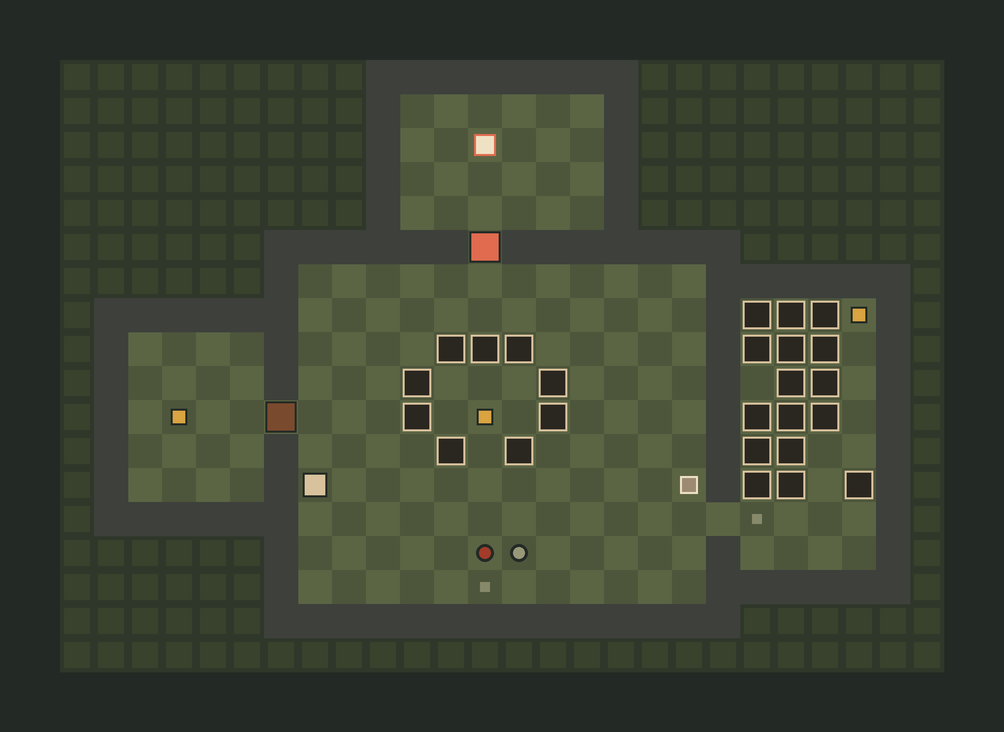
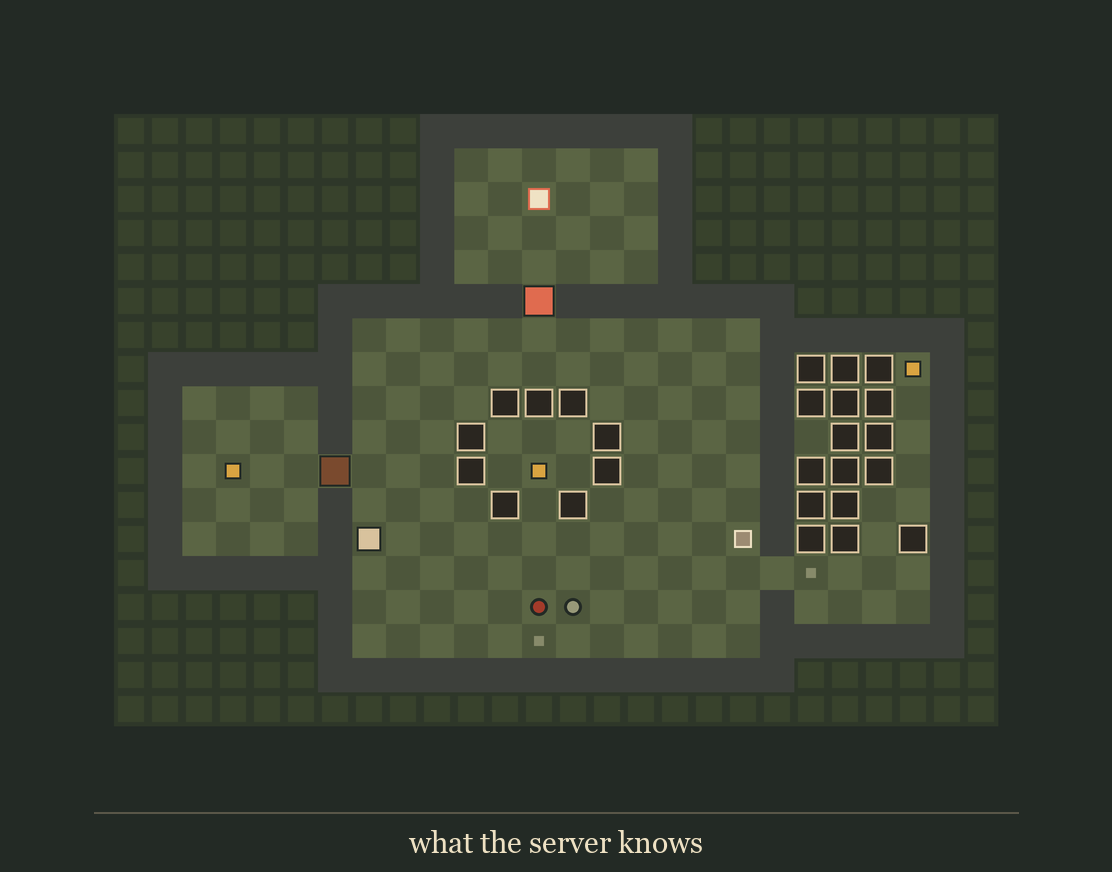
chore: caption each half of the dissonance pair (v0.9.5)
The halves were only labelled inside the combined image, which left them
unusable on their own. Both are now built from one captioned panel, and the
pair is those two panels side by side, so a slide can reveal them one at a
time and each still says which view it is.

diff --git a/tools/render_dissonance.py b/tools/render_dissonance.py
@@ -7,8 +7,8 @@ same picture and is not meant to be: the hidden pits are withheld, and a key tha
 not exist is shown. Both are drawn from the one level file, so the difference between
 the two images is exactly the difference the server manufactures.
 
-Writes the pair and each half separately, for a slide that wants to reveal them one at
-a time.
+Writes the pair and each half separately, every one of them captioned, so a slide can
+reveal them one at a time or show them together.
 """
 import os
 import sys
@@ -17,39 +17,43 @@ from PIL import Image, ImageDraw
 from boxrender import CREAM, NIGHT, SIENNA, STONE, font, lerp, out_dir
 from render_level import render
 
-GAP, PAD, CAPTION = 70, 54, 86
+PAD, CAPTION, GAP = 54, 86, 70
+
+
+def panel(img, caption):
+    """One map on the poster background, with a rule and its caption beneath."""
+    out = Image.new("RGB", (img.width + PAD * 2, img.height + PAD + CAPTION), NIGHT)
+    out.paste(img, (PAD, PAD))
+    d = ImageDraw.Draw(out)
+    y = PAD + img.height
+    d.line([(PAD + 40, y + 26), (PAD + img.width - 40, y + 26)],
+           fill=lerp(STONE, NIGHT, 0.55), width=2)
+    d.text((out.width // 2, y + 56), caption, font=font("georgia.ttf", 30),
+           fill=CREAM, anchor="mm")
+    return out
 
 
 def main():
     level_id = (sys.argv[1:] or ["foothills-3"])[0]
     cell = 34
 
-    halves = [("what the server knows", render(level_id, False, False, "truth", cell)),
-              ("what a client is told", render(level_id, False, False, "client", cell))]
+    panels = [panel(render(level_id, False, False, "truth", cell), "what the server knows"),
+              panel(render(level_id, False, False, "client", cell), "what a client is told")]
 
-    w = PAD * 2 + halves[0][1].width * 2 + GAP
-    h = PAD * 2 + halves[0][1].height + CAPTION
-    img = Image.new("RGB", (w, h), NIGHT)
-    d = ImageDraw.Draw(img)
+    pair = Image.new("RGB", (panels[0].width * 2 + GAP, panels[0].height), NIGHT)
+    for i, pan in enumerate(panels):
+        pair.paste(pan, (i * (pan.width + GAP), 0))
+    # A hairline between them, so they read as one comparison rather than two pictures.
+    d = ImageDraw.Draw(pair)
+    cx = panels[0].width + GAP // 2
+    d.line([(cx, PAD + 20), (cx, panels[0].height - CAPTION - 20)],
+           fill=lerp(SIENNA, NIGHT, 0.45), width=2)
 
-    for i, (caption, half) in enumerate(halves):
-        x = PAD + i * (half.width + GAP)
-        img.paste(half, (x, PAD))
-        mid = x + half.width // 2
-        d.line([(x + 40, PAD + half.height + 26), (x + half.width - 40, PAD + half.height + 26)],
-               fill=lerp(STONE, NIGHT, 0.55), width=2)
-        d.text((mid, PAD + half.height + 56), caption, font=font("georgia.ttf", 30),
-               fill=CREAM, anchor="mm")
-
-    # A hairline between the two, so they read as a comparison rather than two pictures.
-    cx = PAD + halves[0][1].width + GAP // 2
-    d.line([(cx, PAD + 20), (cx, PAD + halves[0][1].height - 20)], fill=lerp(SIENNA, NIGHT, 0.45), width=2)
-
-    for name, im in (("dissonance-pair", img),
-                     ("dissonance-server", halves[0][1]),
-                     ("dissonance-client", halves[1][1])):
+    for name, im in (("dissonance-pair", pair),
+                     ("dissonance-server", panels[0]),
+                     ("dissonance-client", panels[1])):
         path = os.path.join(out_dir(), name + ".png")
-        im.convert("RGB").save(path)
+        im.save(path)
         print("wrote", os.path.normpath(path), im.size)
 
 

diff --git a/README.md b/README.md
@@ -6,7 +6,7 @@ A networked two-player co-op puzzle crawler, drawn like a 1970s national park po
 
 This repository is the **Unity client**. The authoritative simulation is a separate server called **Hollowline**, in `server/`: it owns all game state, and the client renders what it is told and sends input. A mock feed inside the client stands in for it when you play offline, which is still the default.
 
-Current version: **v0.9.4** (see [Versioning](#versioning)).
+Current version: **v0.9.5** (see [Versioning](#versioning)).
 
 ## Requirements
 
@@ -262,6 +262,7 @@ The project follows [Semantic Versioning](https://semver.org). While it is below
 
 | Version | Summary |
 | --- | --- |
+| v0.9.5 | Each half of the dissonance pair carries its own caption |
 | v0.9.4 | The dissonance pair: a level as the server holds it, beside what a client is told |
 | v0.9.3 | Renders are solid: faces buried inside other boxes no longer sort to the front |
 | v0.9.2 | A thicker tail that sweeps and curls instead of three stepped stubs |
